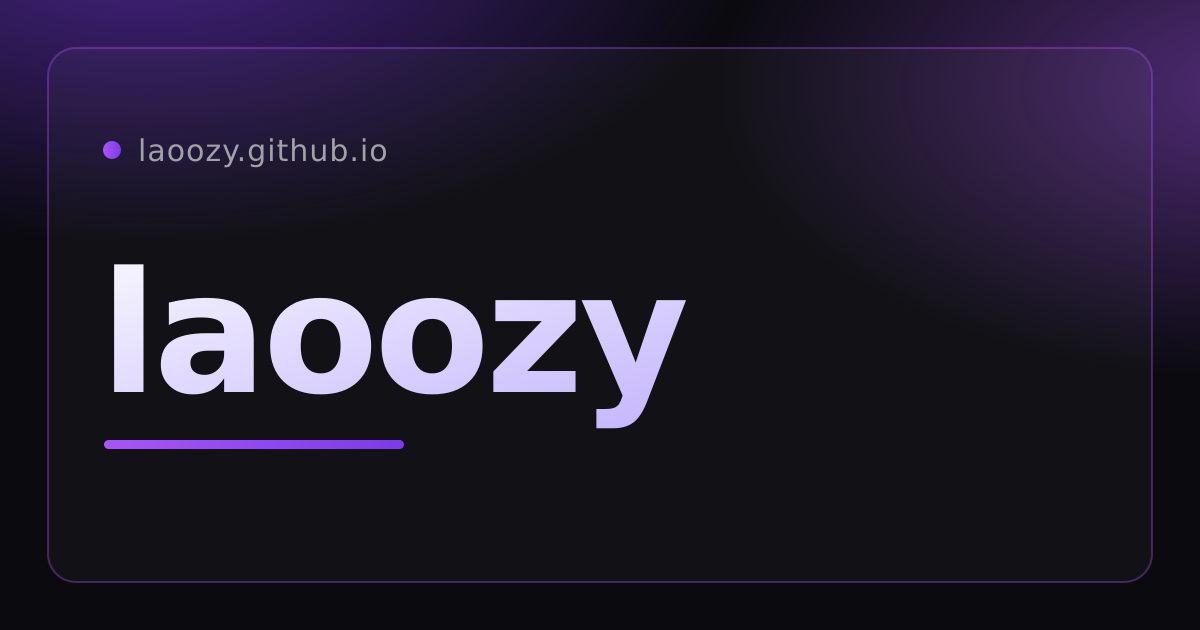
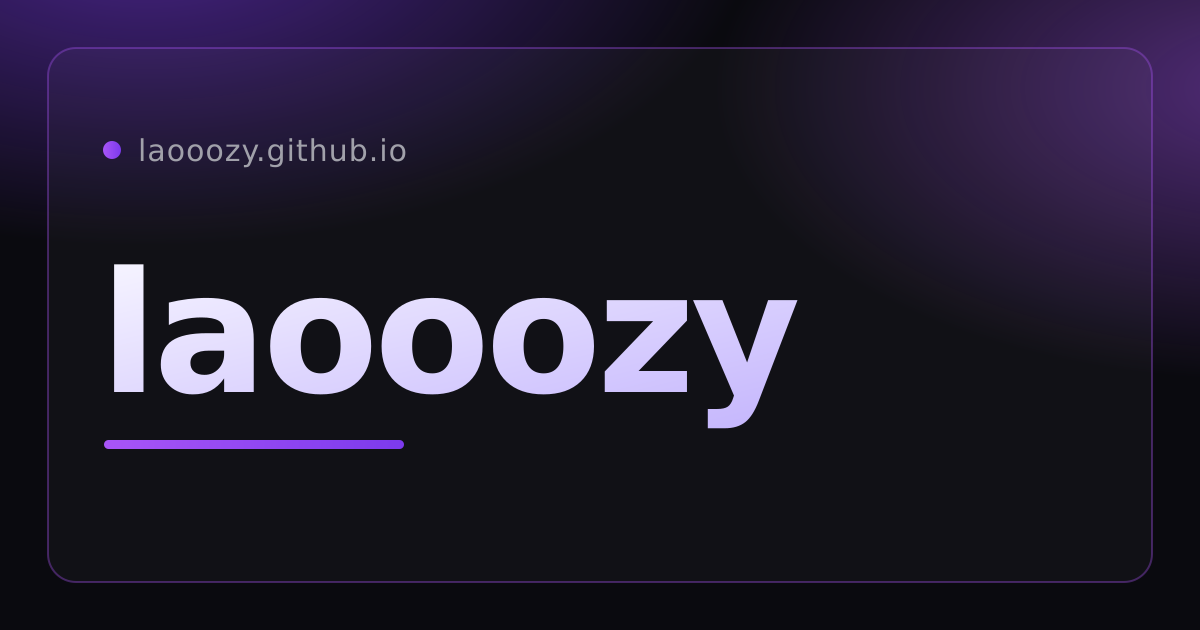
fix(a11y): contrast, focus, responsive, reduced-motion + brand-spelling corrections

Changed region(s): [[0.4008, 0.4524, 0.6783, 0.6937], [0.1542, 0.2111, 0.3392, 0.2714]]

diff --git a/src/styles/global.css b/src/styles/global.css
@@ -11,6 +11,7 @@
 html {
   -webkit-text-size-adjust: 100%;
   scroll-behavior: smooth;
+  overflow-x: clip;
 }
 
 body {
